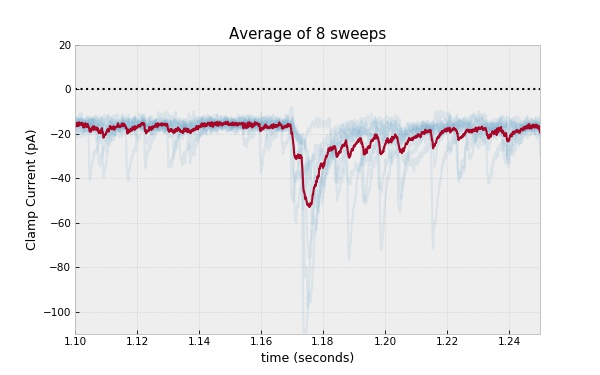
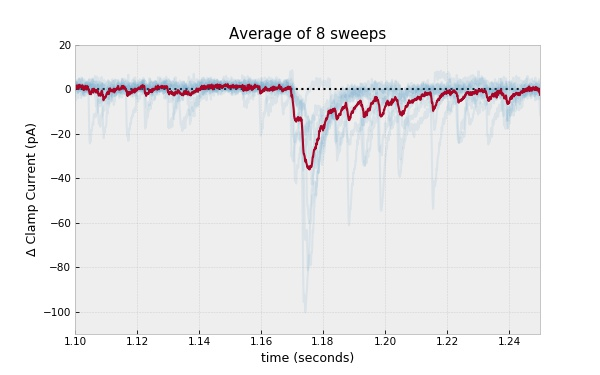
fix baseline subtraction

Changed region(s): [[0.12, 0.2053, 0.9, 0.616], [0.03, 0.3227, 0.06, 0.6747], [0.51, 0.792, 0.54, 0.8213]]

diff --git a/src/pyabf/sweep.py b/src/pyabf/sweep.py
@@ -98,11 +98,13 @@ def setSweep(abf, sweepNumber, channel=0, absoluteTime=False):
         abf.sweepX += sweepNumber * abf.sweepLengthSec
 
     # default case is disabled
-    if not "baselinePoints" in vars():
+    if not hasattr(abf, '_sweepBaselinePoints'):
+        log.debug("setSweep doesn't see baselinePoints, making False")
         abf._sweepBaselinePoints = False
 
     # if baseline subtraction is used, apply it
     if abf._sweepBaselinePoints:
+        log.debug("setSweep is applying baseline subtraction")
         baseline = np.average(
             abf.sweepY[int(abf._sweepBaselinePoints[0]):int(abf._sweepBaselinePoints[1])])
         abf.sweepY = abf.sweepY-baseline
